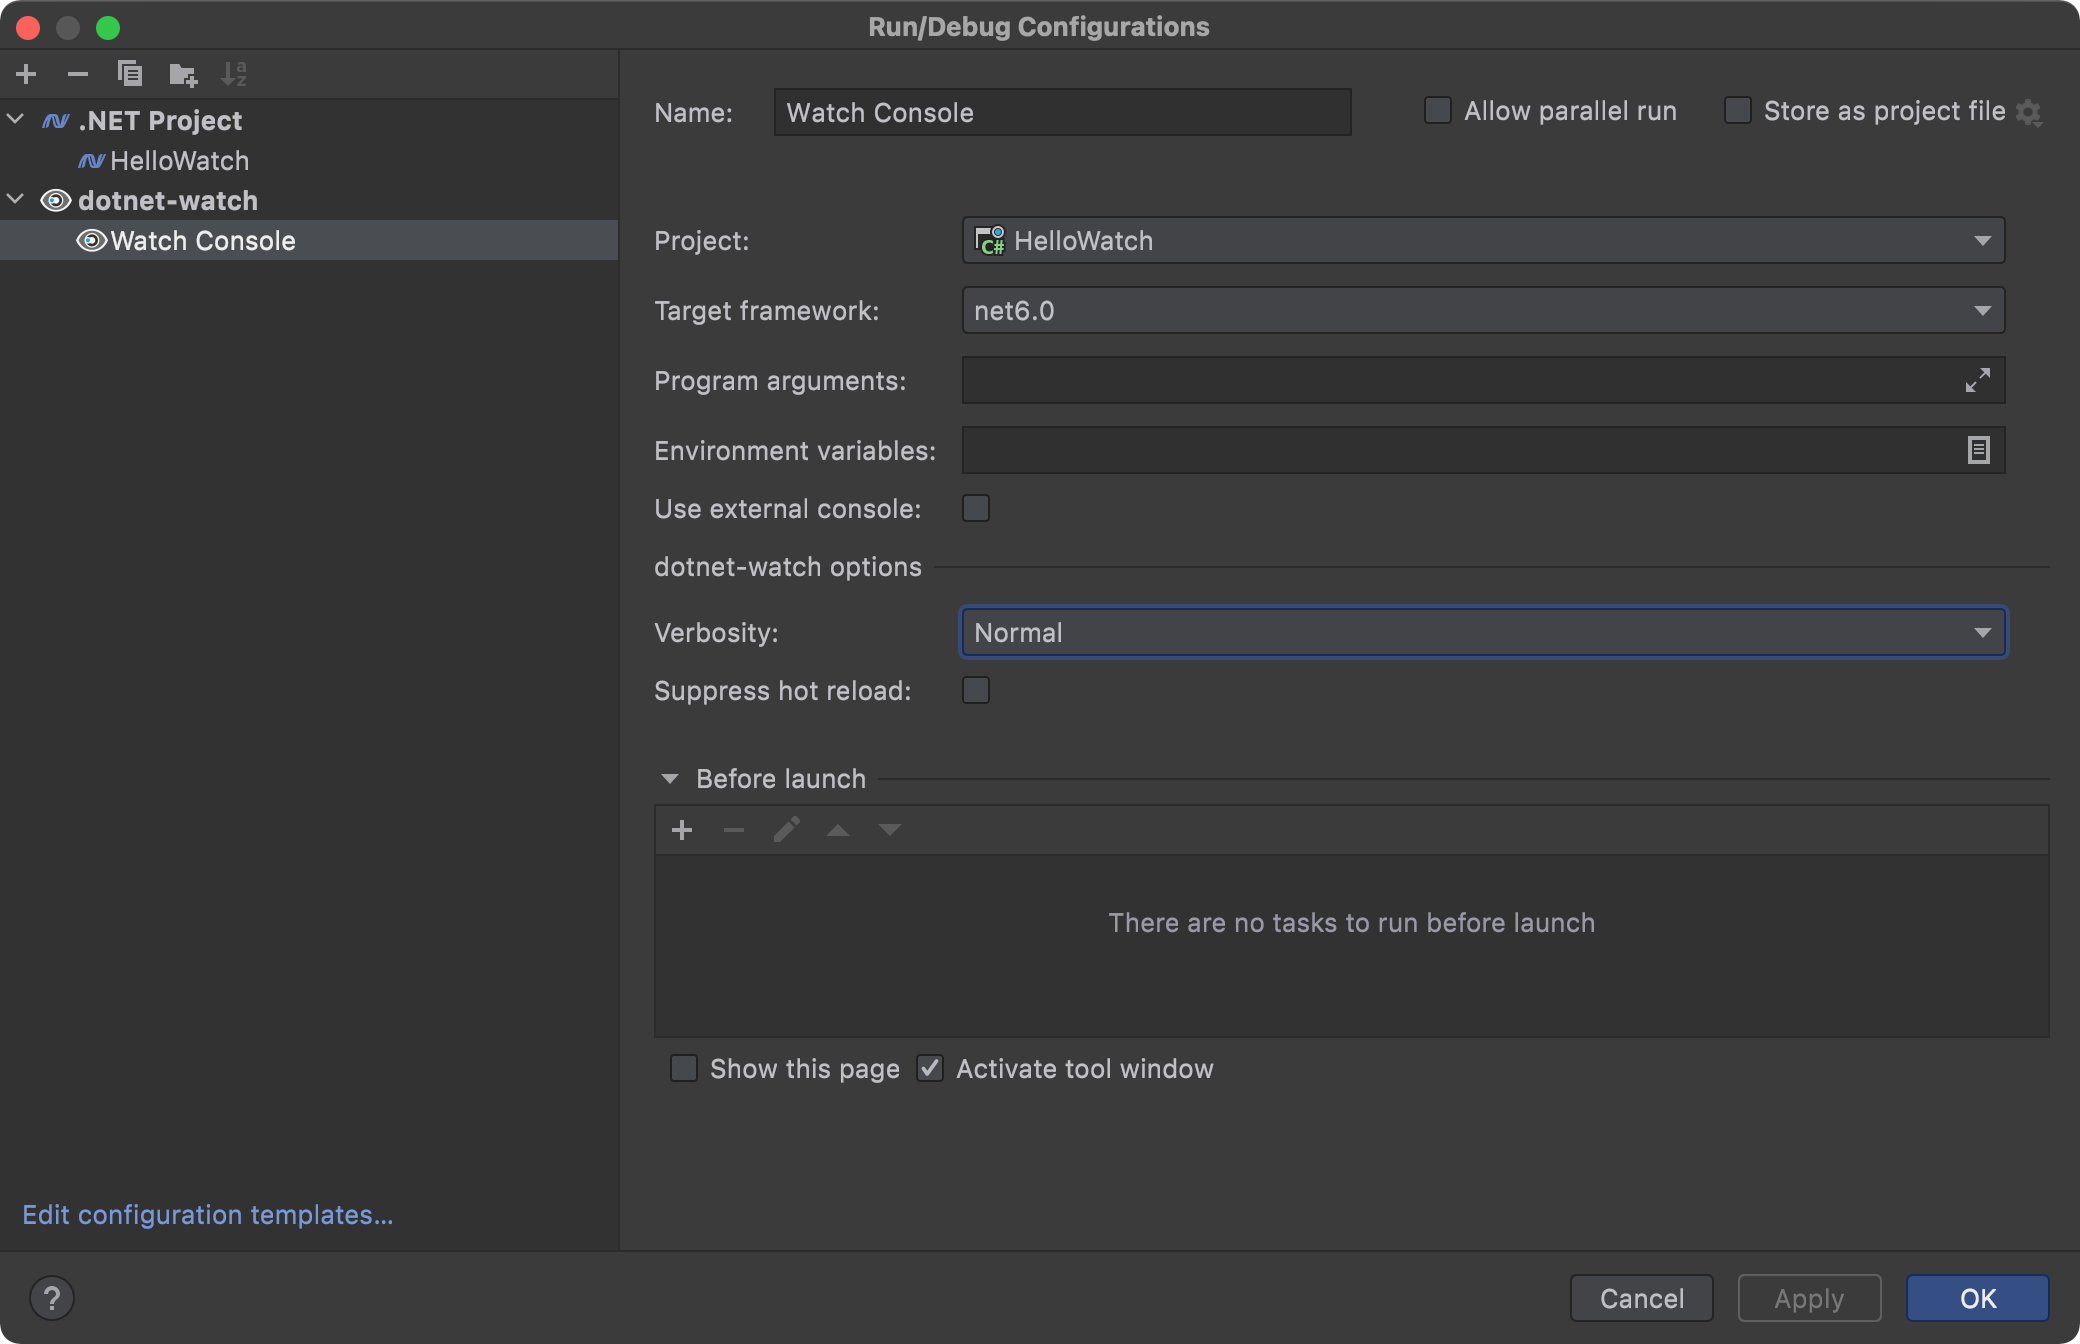
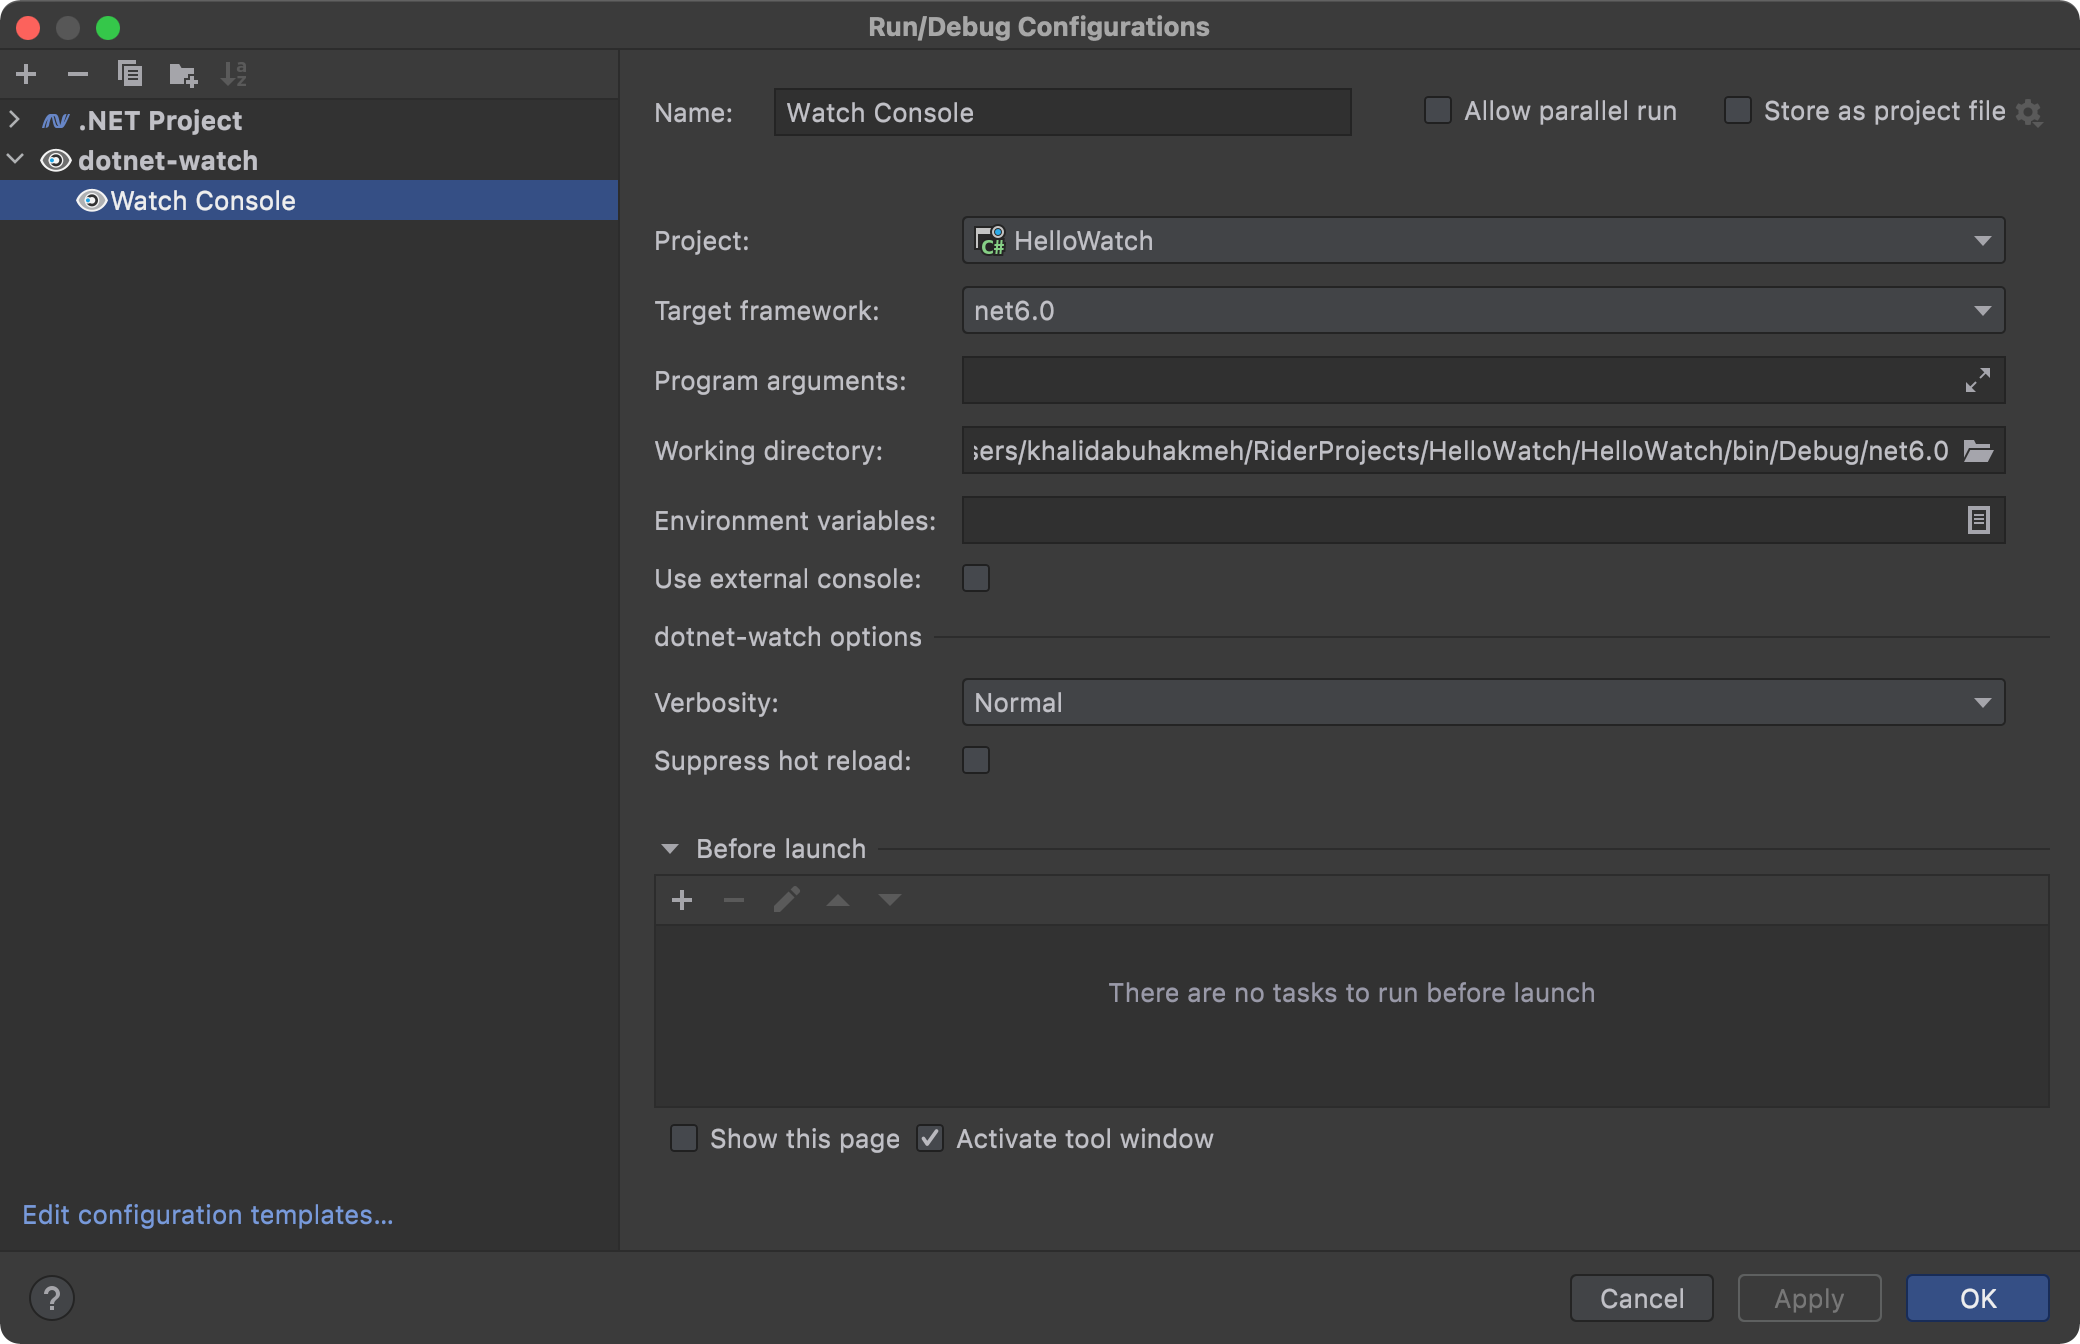
Update README.MD and Run Configuration Settings screenshot

diff --git a/README.md b/README.md
@@ -9,11 +9,13 @@ Features include:
 
 - Project Selection
 - Target Framework Selection
+- Program Arguments
+- Working Directory
 - Environment Variables editor
-- Command Line Arguments editor
+- Use External Console flag
 - Verbosity (`--quiet`, `--verbose`, or default)
-- Hot Reload Switches support
-- Before Execution options
+- Suppress Hot Reload (only .NET 6)
+- Before Launch options
 
 <!-- Plugin description end -->
 
